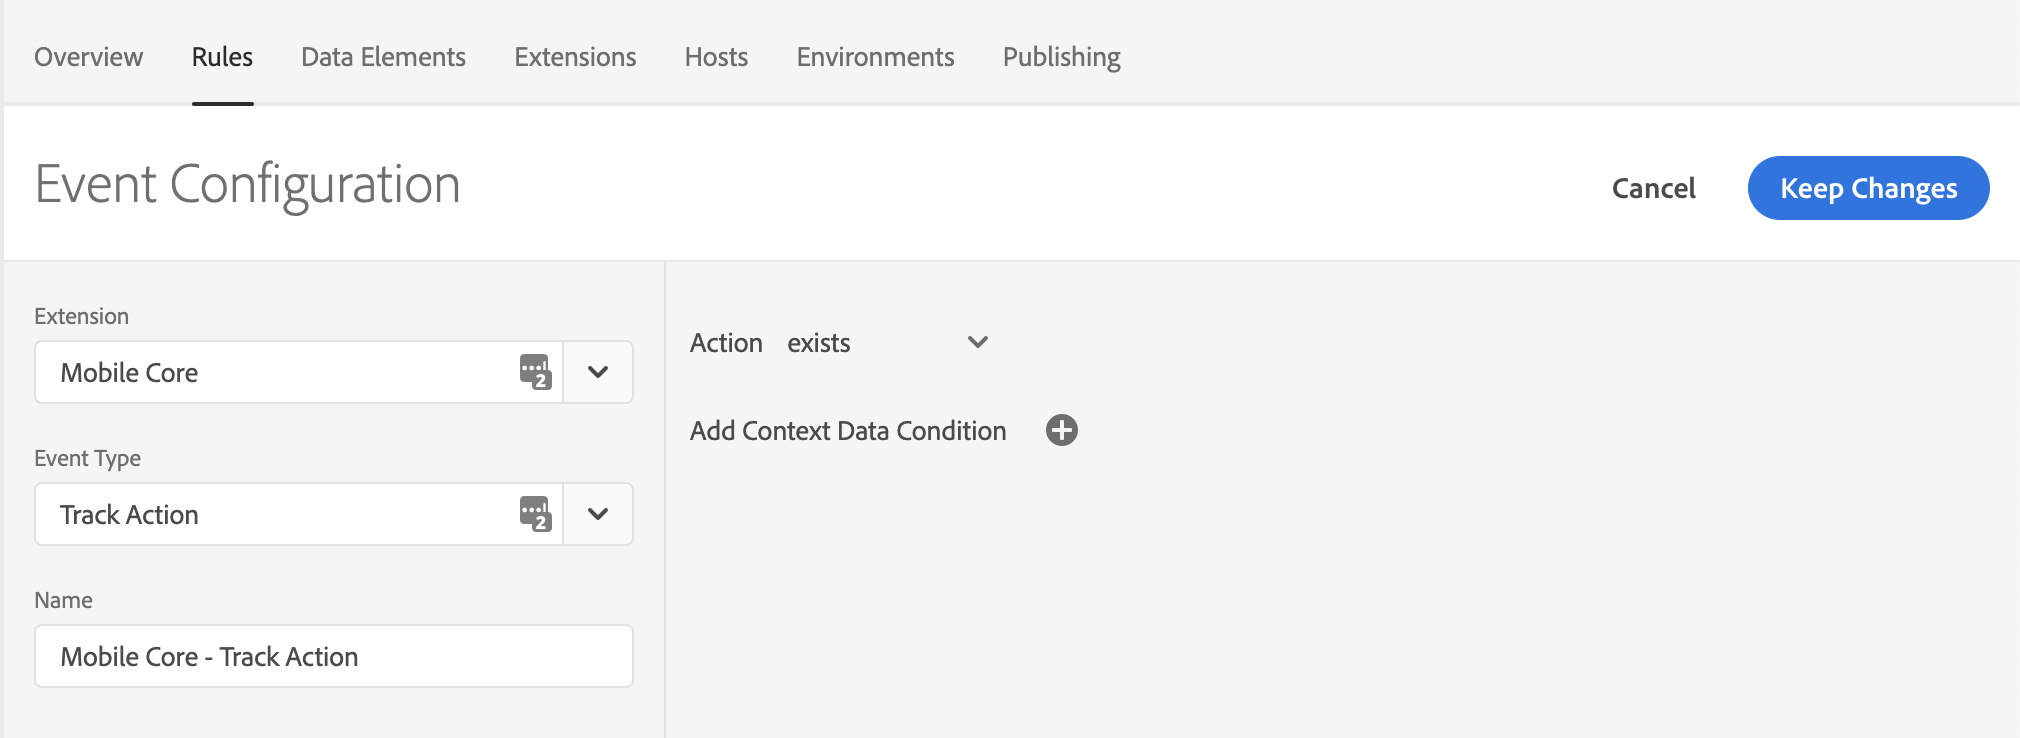
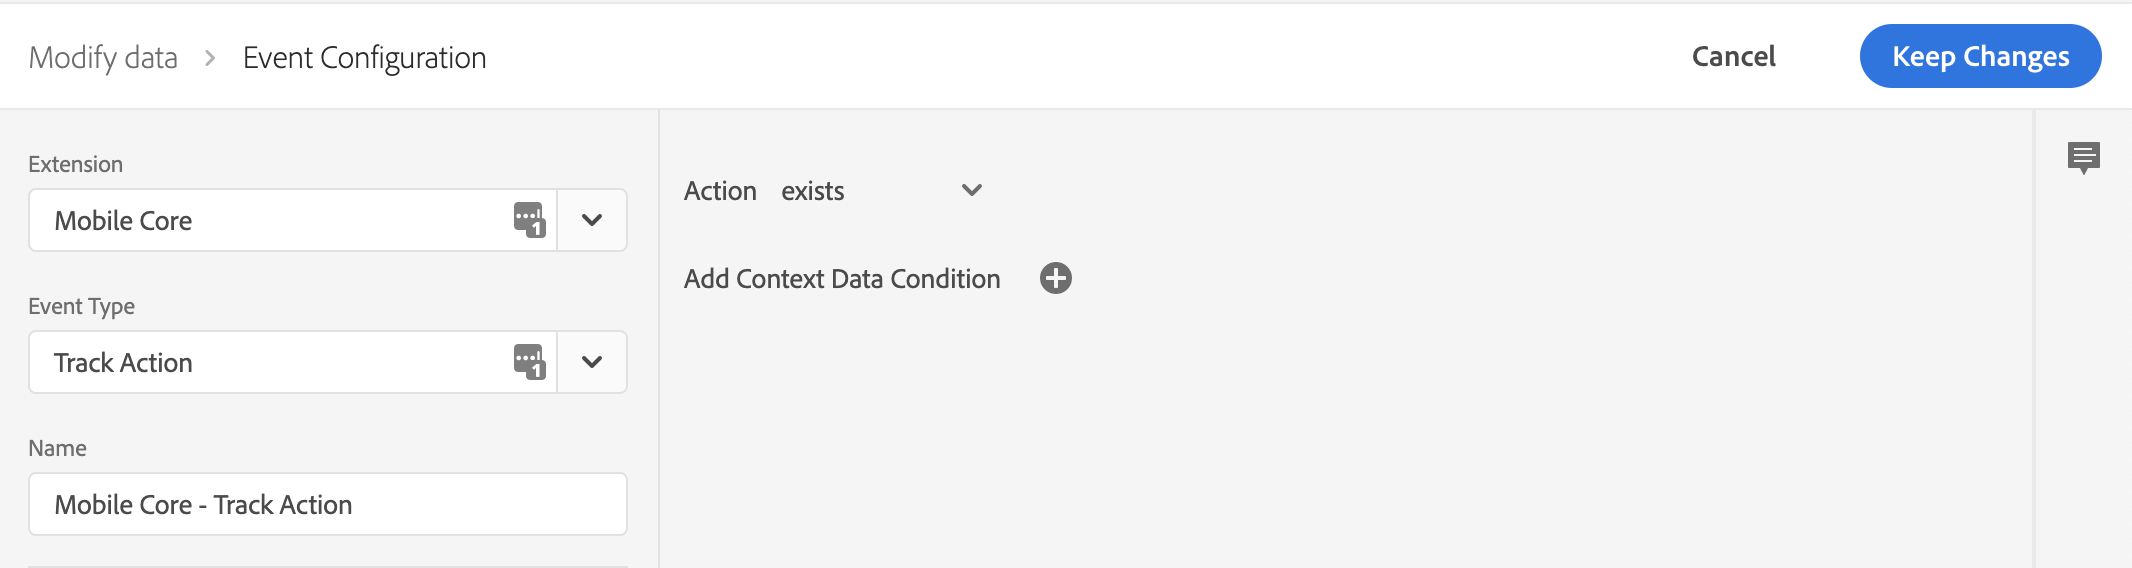
Added launch changes for modify data

diff --git a/resources/user-guides/modify-data.md b/resources/user-guides/modify-data.md
@@ -52,9 +52,9 @@ If there is a conflict between the data that is defined in your Rule and the dat
 
 ### Defining a payload for the modify data action
 
-When defining a payload for the modify data action, the payload must match the format of the triggering event. For example, if you want to modify context data in an Analytics event, you need to know where the context data is defined on that event and match the format in your rule. For this reason, we strongly recommended that you enable verbose logging in the SDK and carefully study the format of the event to which you will attach the data. If the format does not match, most likely the expected results will not be received.
+When defining a payload for the modify data action, the payload must match the format of the triggering event. For example, if you want to modify context data in an Analytics event, you need to know where the context data is defined on that event and match the format in your rule. For this reason, we strongly recommended that you use the **Template** if available. If not, please enable verbose logging in the SDK and carefully study the format of the event to which you will modify the data. If the format does not match, most likely the expected results will not be received.
 
-## Example - modifying data in Analytics event
+## Example - Modifying data in Analytics event
 
 The following sample shows how to _modify data_ to all outgoing `TrackAction` Analytics network requests. To create this type of rule, select your property in Experience Platform Launch and complete the following steps:
 
@@ -84,25 +84,38 @@ If you do not have existing rules for this property, the **Create New Rule** but
 
 ![](../../.gitbook/assets/setevent.png)
 
-### Define the action
+### Define the action using Template
 
 1. Under the **Actions** section, click **Add**.
 2. From the **Extension** drop-down list, select **Mobile Core**.
 3. From the **Action Type** drop-down list, select **Modify Data**.
-4. On the right pane, in the **JSON Payload** field, type the data that will be added to this event.
+4. On the right pane, in the **Context Data** area, click the **Add** button to insert a new key-value pair. Additional key-value pairs can be added by clicking on the Add button for each key-value pair.
+5. Select the **Value Type** for the value as String, Number, Boolean or Null. If the value type is selected as Null, the key will be removed from the triggering analytics event.
+6. Enter the **key** and **value** that needs to be modified in the triggering analytics event.
 5. Click **Keep Changes**.
 
-On the right pane, you can add a freeform JSON payload that adds data to an SDK event before an extension that is listening for this event can hear the event. In this example, context data is added to this event before the Analytics extension processes it. The added context data will now be on the outgoing Analytics hit.
+![](../../.gitbook/assets/setactionanalytics.png)
 
-In the following example, **launches** and **anAddedKey** keys are added to the **contextdata** of the Analytics event. Values for the new keys can either be hardcoded in the rule, or dynamically determined by the SDK when this event processes by using Data Elements.
+### Define the action using Freeform JSON
 
-![](../../.gitbook/assets/setaction.png)
+1. Under the **Actions** section, click **Add**.
+2. From the **Extension** drop-down list, select **Mobile Core**.
+3. From the **Action Type** drop-down list, select **Modify Data**.
+4. On the right pane, from the **Choose a Template** drop-down list, select **JSON**.
+5. In the **JSON Payload** field, type the json data that will modify this event data.
+6. Click Keep Changes.
+
+![](../../.gitbook/assets/setactionjson.png)
+
+On the right pane, you can add a payload that modifies data of an SDK event before an extension that is listening for this event can hear the event. In this example, context data of this event is modified before the Analytics extension processes it. The added context data will now be on the outgoing Analytics hit.
+
+In the following example, **launches** and **anAddedKey** keys are modified and **aRemovedKey** key is removed in the **contextdata** of the Analytics event. Values for the new keys can either be hardcoded in the rule, or dynamically determined by the SDK when this event processes by using Data Elements.
 
 ### Save the rule and rebuild your property
 
 After you complete your configuration, verify that your rule looks like the following:
 
-![](../../.gitbook/assets/rulecomplete.png)
+![](../../.gitbook/assets/rulecompletemodifydata.png)
 
 1. Click **Save**
 2. Rebuild your Experience Platform Launch property and deploy it to the correct Environment.
